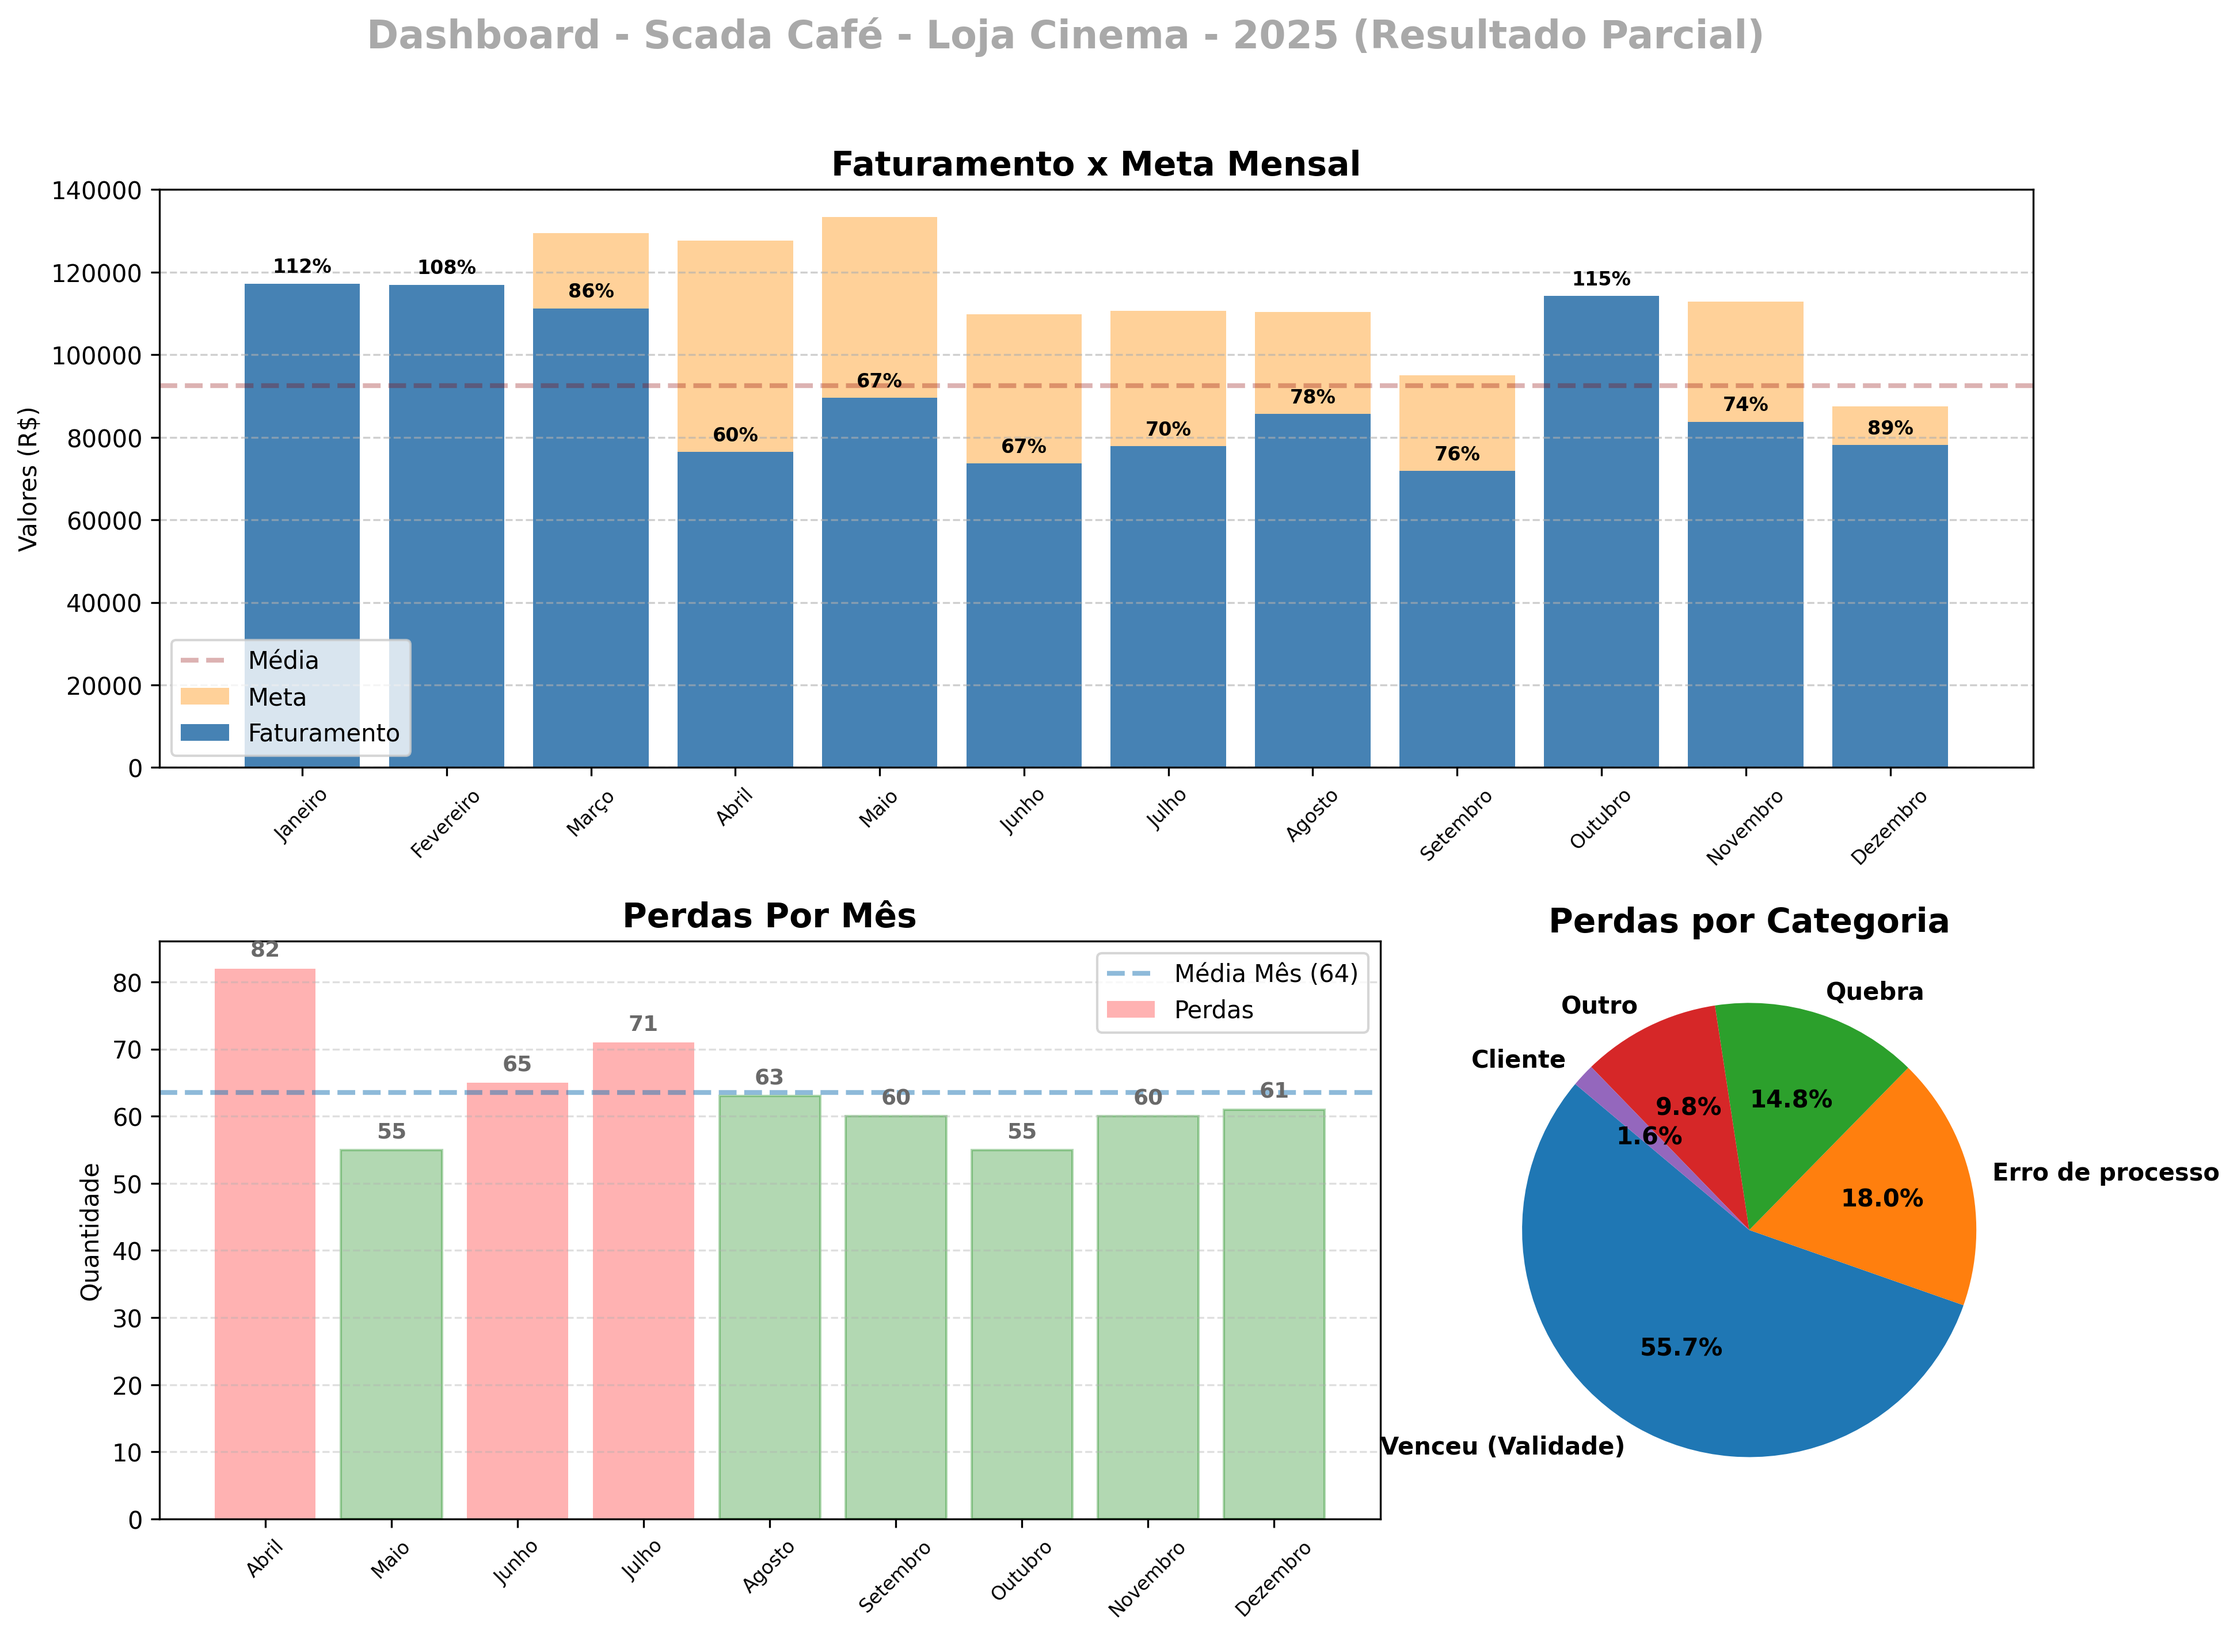
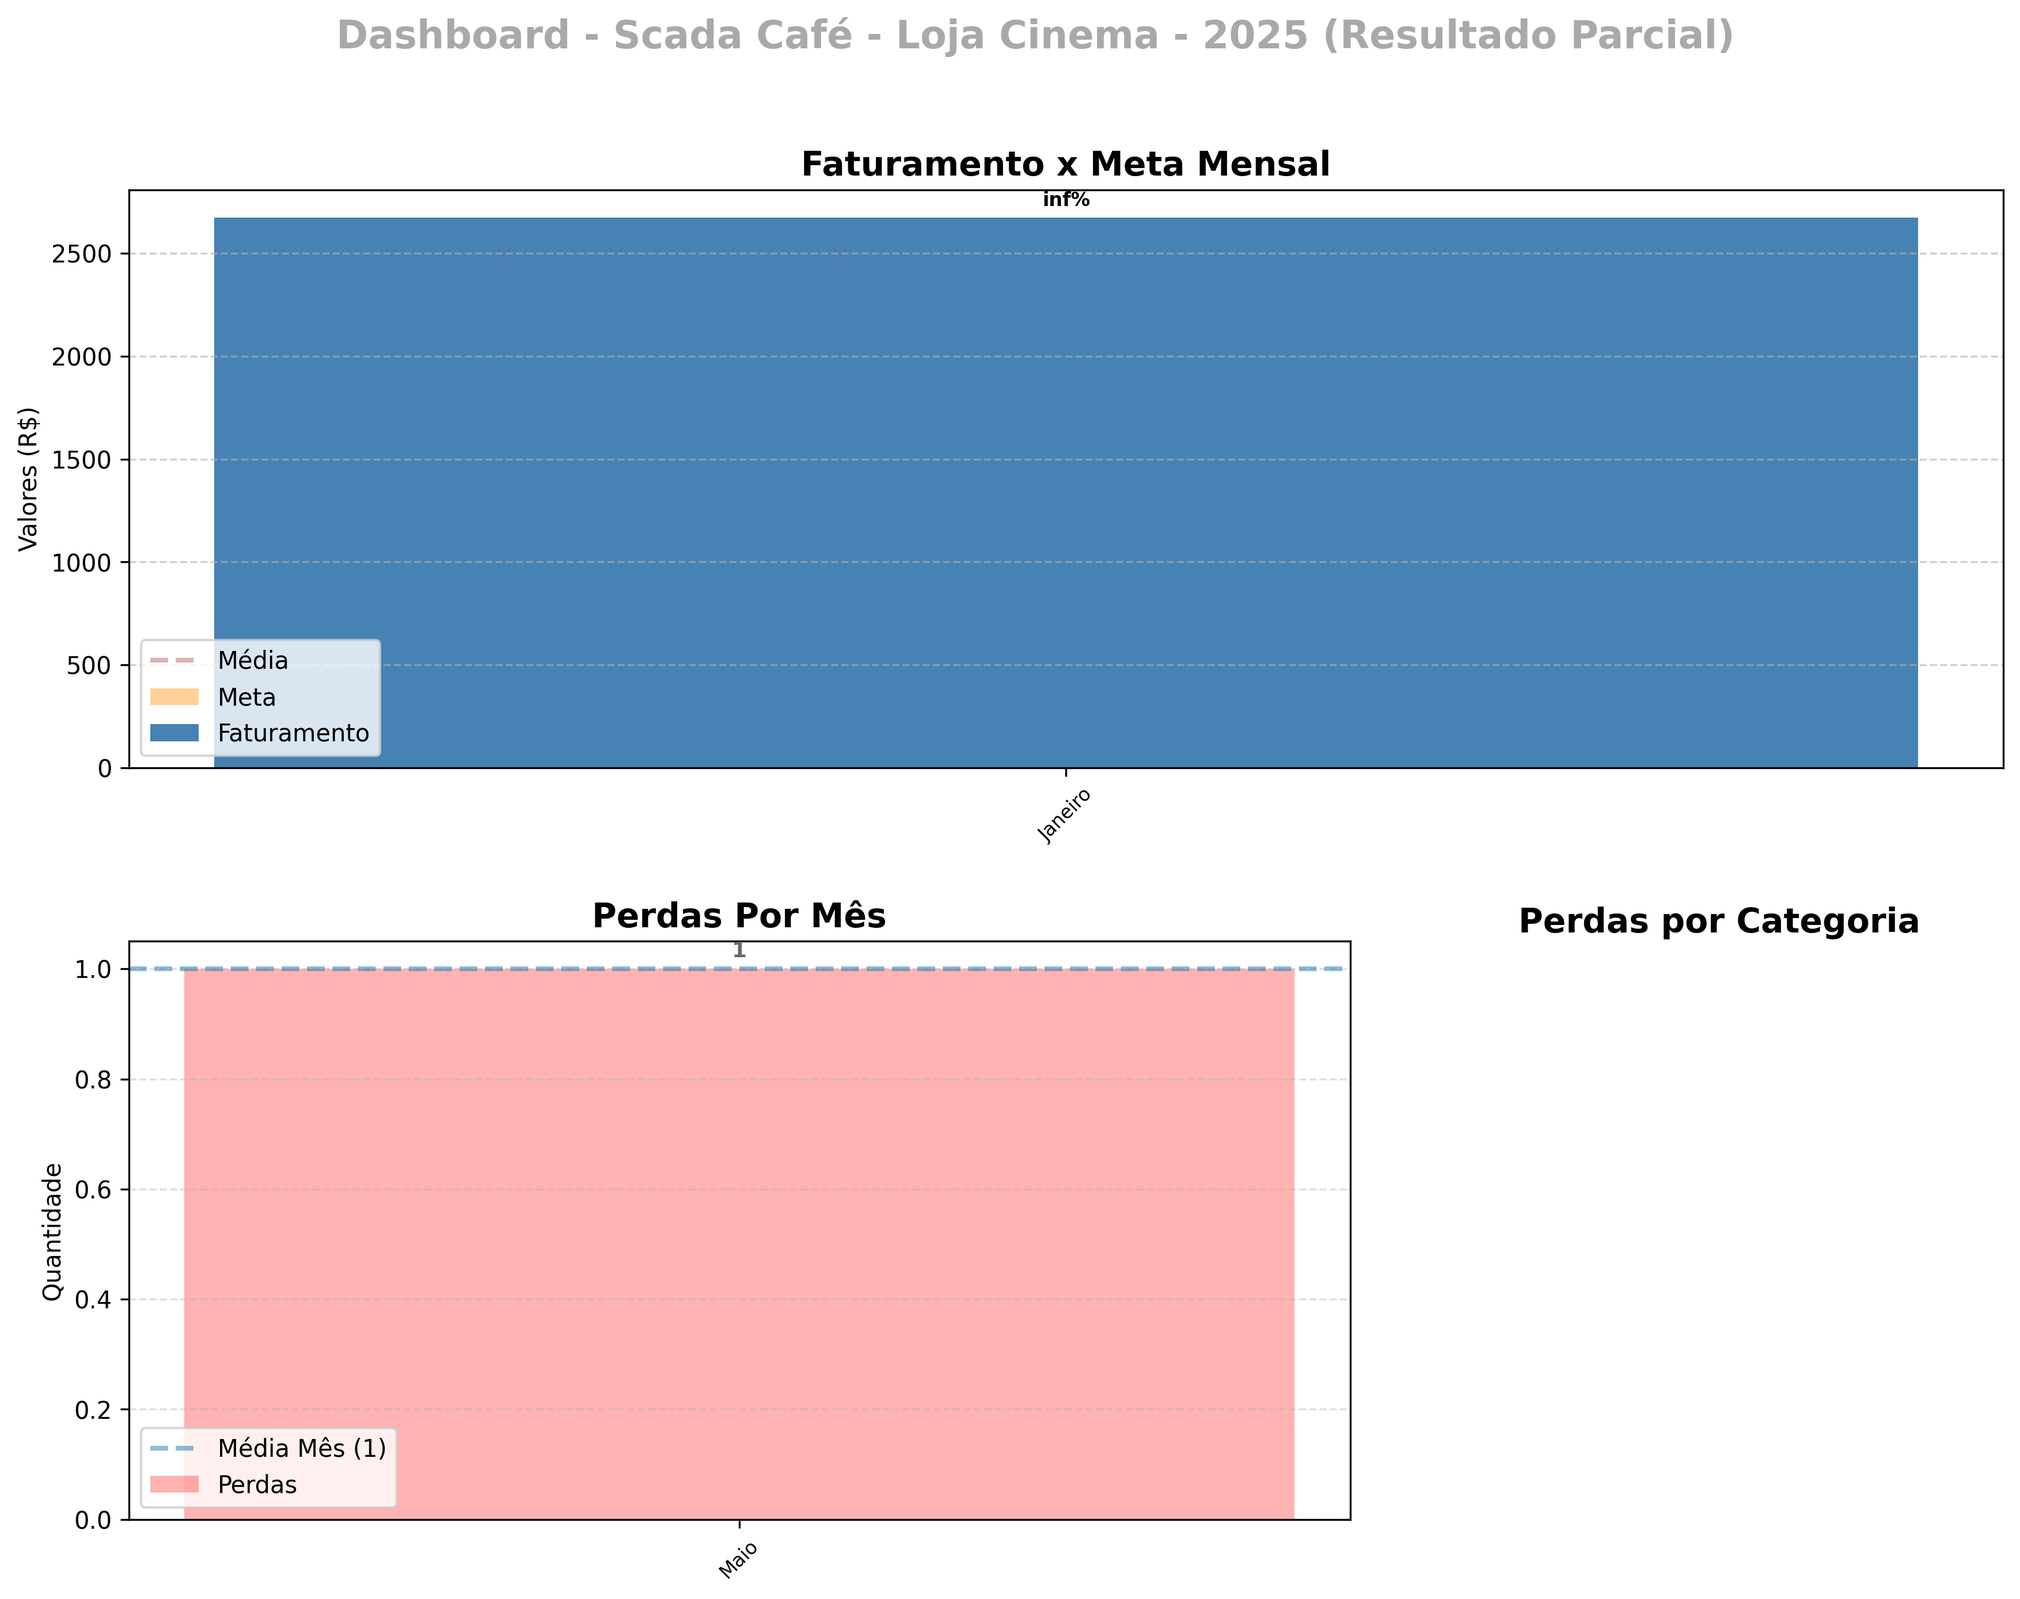
feature: ano mes corrente
inclusão de variáveis para filtro de ano e mês corrente.

diff --git a/scada_cafe.py b/scada_cafe.py
@@ -18,7 +18,8 @@ print(f"Faltam {dias_restantes} dias para terminar o mês.")
 
 
 #- - - - - - - - - - - - - - - - - - - - - - - - - - - - - - - - - - - - - - - - - 
-ANO_EXIBICAO = 2025
+ANO_EXIBICAO = 2026
+MES_EXIBICAO = 1
 #- - - - - - - - - - - - - - - - - - - - - - - - - - - - - - - - - - - - - - - - - 
 
 
@@ -174,8 +175,8 @@ print(produtos_por_mes.head(10))
 #- - - - - - - - - - - - - - - - - - - - - - - - - - - - - - - - - - - - - - - - - 
 # FILTRAR MES CORRENTE em:
 df_mes_corrente = faturamento_df[
-    (faturamento_df['Dia'].dt.year == 2025) &
-    (faturamento_df['Dia'].dt.month == 12)
+    (faturamento_df['Dia'].dt.year == ANO_EXIBICAO) &
+    (faturamento_df['Dia'].dt.month == MES_EXIBICAO)
 ]
 
 import calendar
